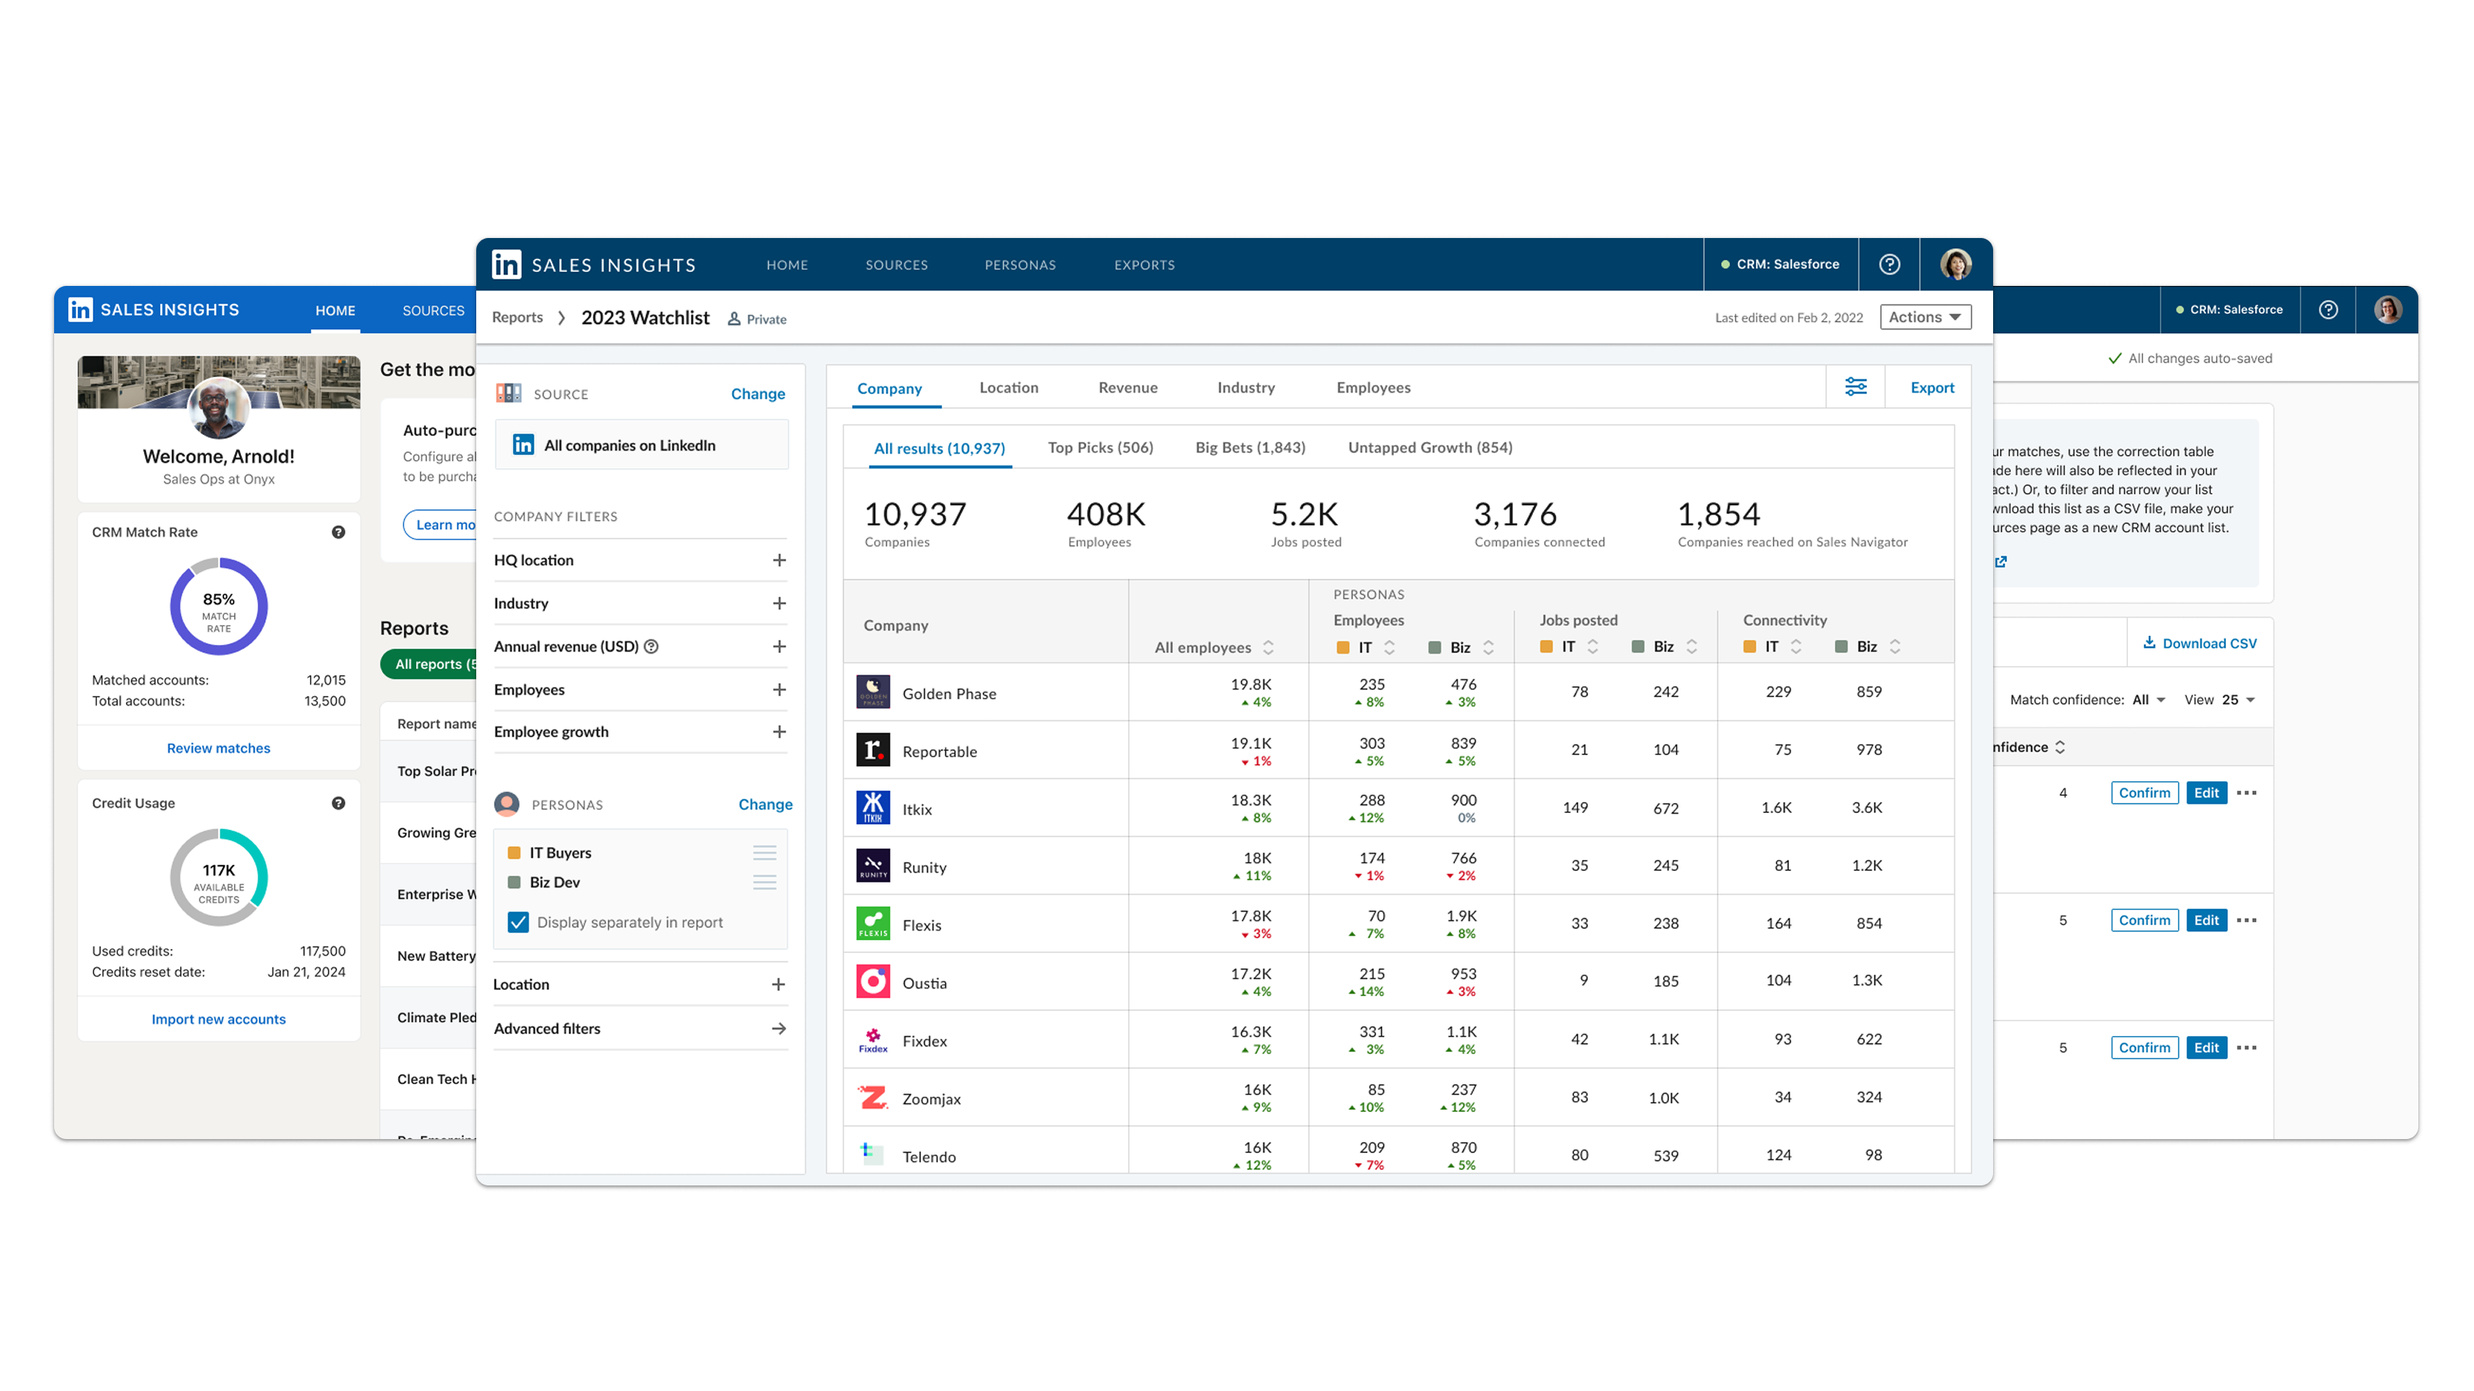
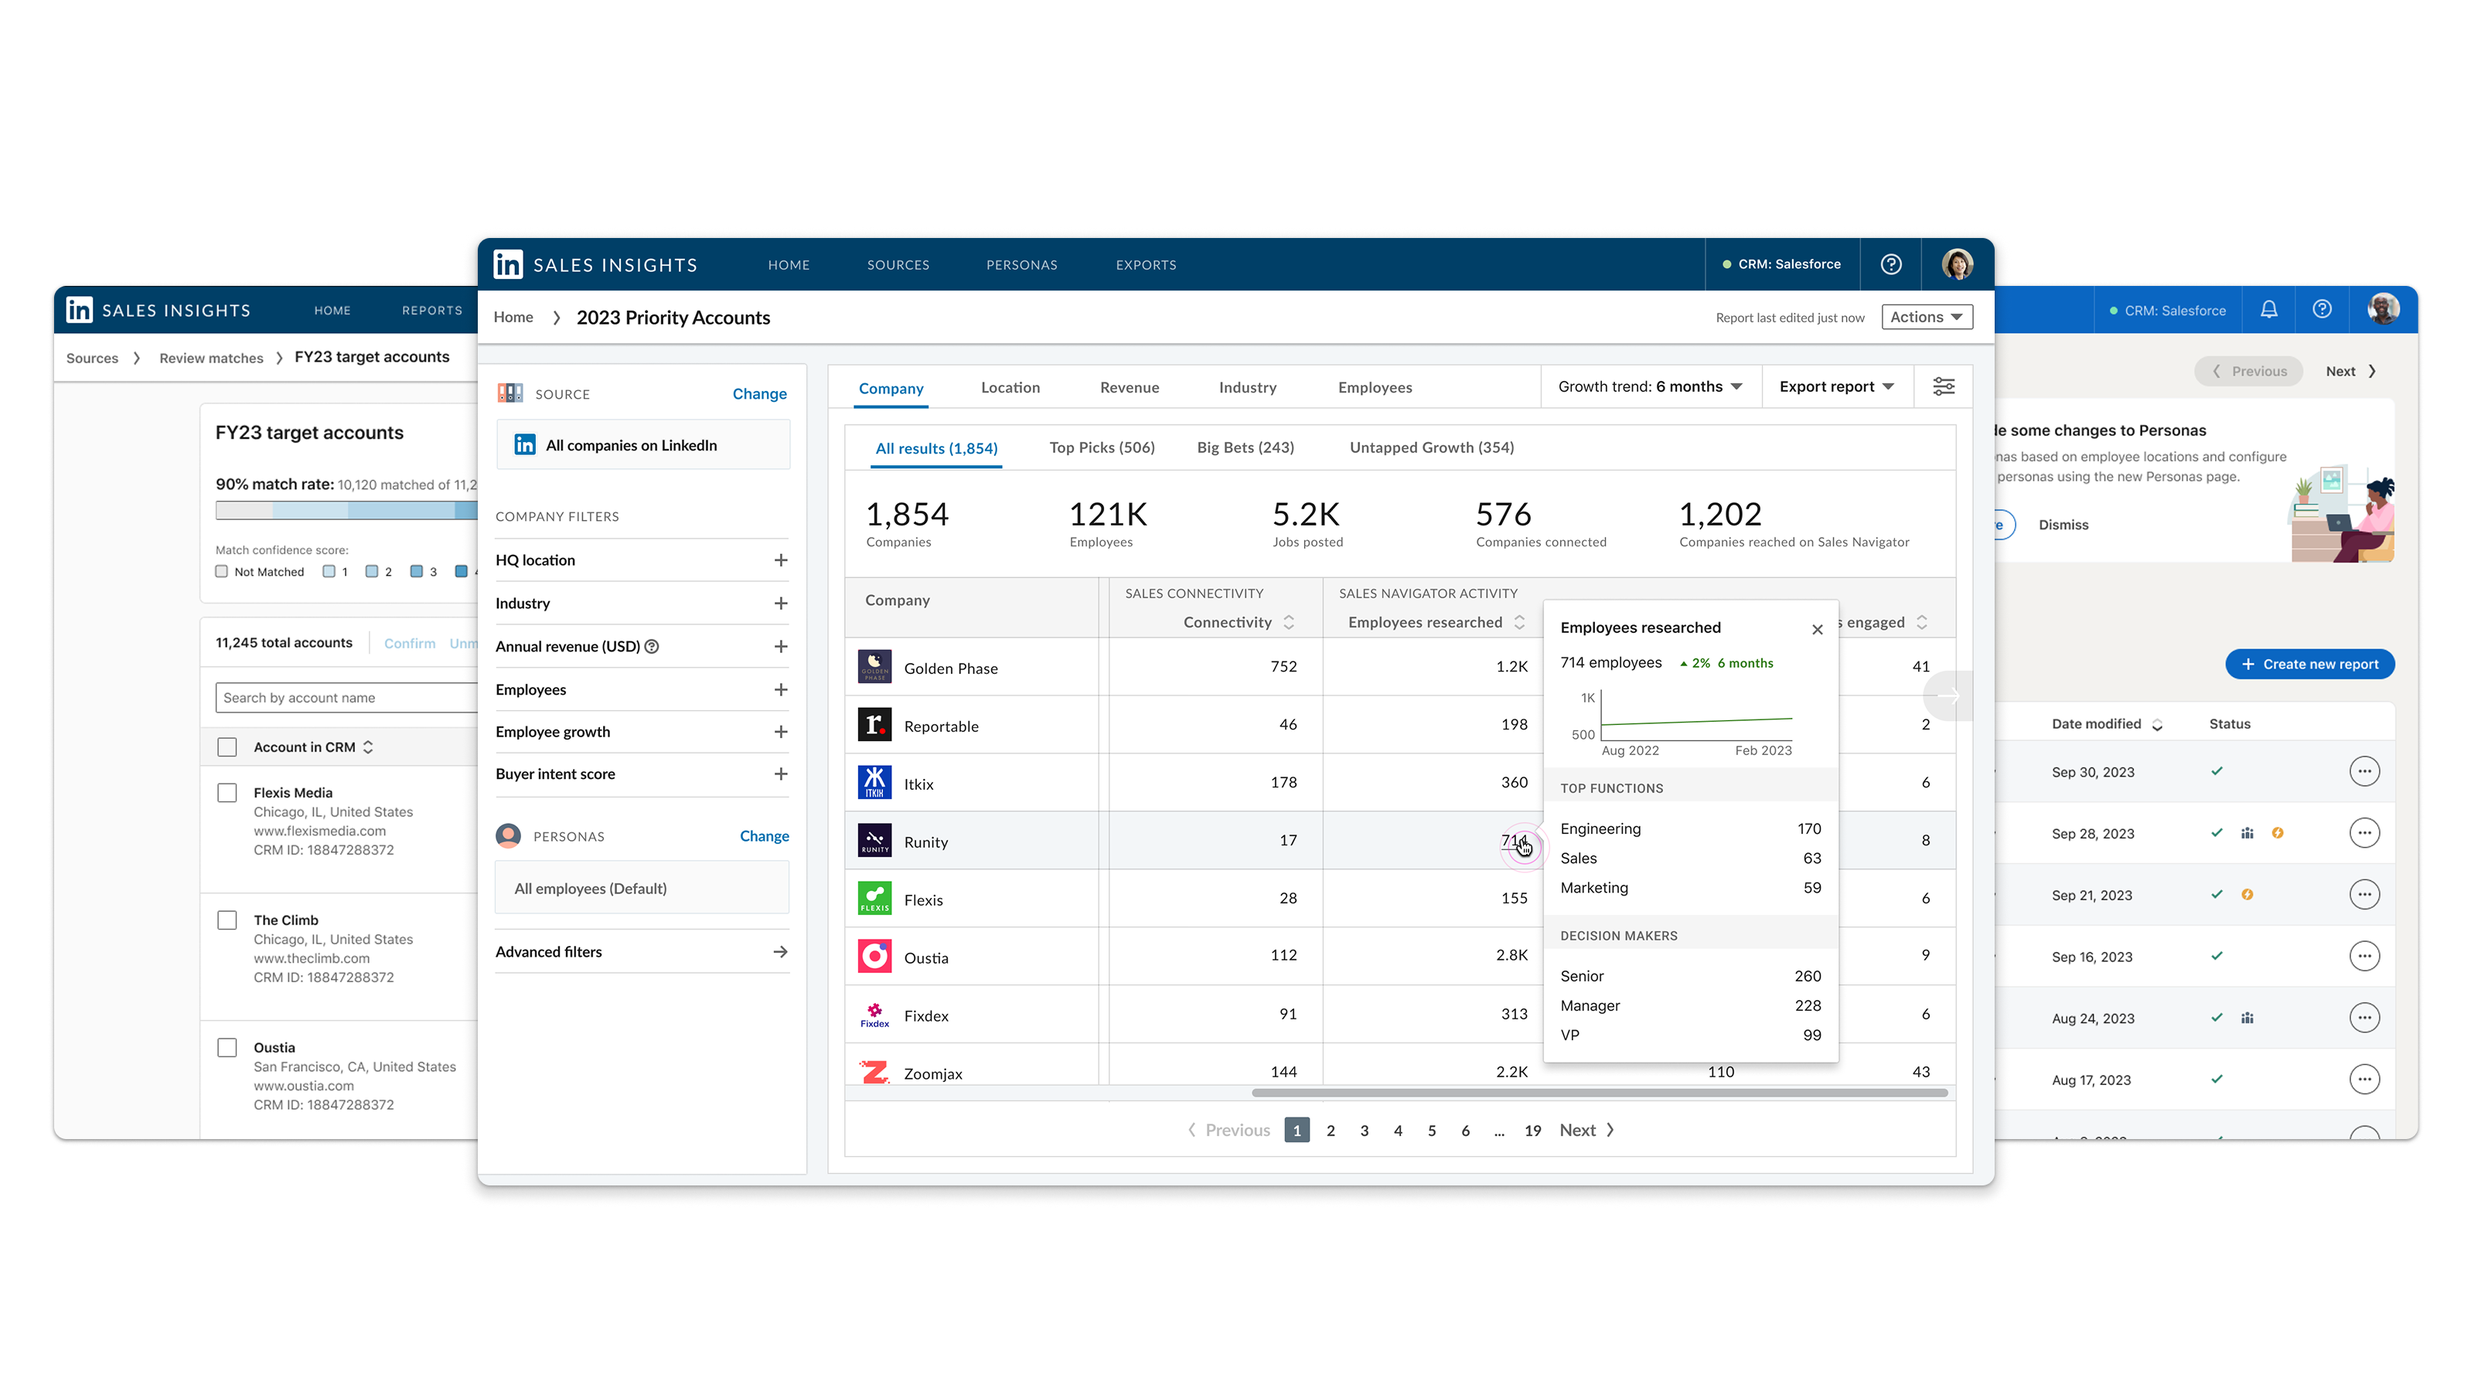
Update Sales Insights case study

diff --git a/components/portfolio-content.tsx b/components/portfolio-content.tsx
@@ -1338,21 +1338,22 @@ export const caseStudies: CaseStudy[] = [
     status: "LinkedIn enterprise product",
     contribution: {
       owned: [
-        "Led design across core planning workflows, reports, sources, account lists, exports, and integration states.",
-        "Reframed dense GTM data around planning confidence, data trust, and repeatable enterprise workflows.",
-        "Designed CRM and CSV automation moments as core UX surfaces, not back-office setup.",
+        "Led design across reports, sources, account lists, exports, CRM sync, and integration states.",
+        "Reframed dense LinkedIn data around planning confidence: why an account mattered, where the data came from, and what teams could do next.",
+        "Treated matching, field mapping, review, export, and sync states as first-class product moments because they determined whether teams could trust automation.",
       ],
       partnered: [
-        "Partnered with two PMs across core experience and integrations.",
-        "Onboarded two temporarily reassigned designers and helped them ramp on rapid-cycle Sales Insights initiatives.",
-        "Connected Sales Ops planning needs to downstream CRM, Marketing, and Sales Navigator activation.",
+        "Partnered with PMs across core experience and integrations to connect planning workflows with downstream activation.",
+        "Onboarded and supported two temporarily reassigned designers as Sales Insights moved through rapid development.",
+        "Aligned Sales Ops, Marketing, CRM, and Sales Navigator needs around shared account definitions and handoff paths.",
       ],
       proof: [
-        "In the report workflow, source model, and account-matching experience.",
-        "In field mapping, export paths, CRM sync, review states, and exception handling.",
+        "Reports, sources, account lists, and market-sizing workflows.",
+        "Account matching, field mapping, export, sync, review states, and exception handling.",
+        "CRM, Marketing, and Sales Navigator activation paths.",
       ],
     },
-    heroImage: "/projects/sales-insights/LSI%20Report%20Builder%20-%20Mercado%20Update%402x.png",
+    heroImage: "/projects/sales-insights/lsi-report-view-v1.png",
     heroAlt: "LinkedIn Sales Insights report builder showing filters, market segments, trend metrics, and account results",
     thumbnailImage: "/projects/sales-insights/Sales-Insights-thumbnail-md.png",
     thumbnailAlt: "LinkedIn Sales Insights report interface with account filters, personas, market sizing, and account table",
@@ -1454,24 +1455,24 @@ export const caseStudies: CaseStudy[] = [
     ],
     decisions: [
       {
-        title: "Design for confidence, not just analysis",
+        title: "Design for planning confidence, not data density",
         detail:
-          "Users were making decisions that affected territories, campaigns, CRM records, and rep focus. The interface needed to show why an account appeared, how current the data was, and how much confidence to place in matches and recommendations.",
+          "Revenue teams were making decisions that affected territories, campaigns, CRM records, and rep focus. The interface needed to show source, recency, rationale, and match confidence so dense data could become a decision teams trusted.",
       },
       {
-        title: "Make the architecture legible",
+        title: "Make the product model legible",
         detail:
-          "Sales Insights could easily feel like a set of dashboards. The experience needed a clear mental model: sources feed reports, reports create insights and account lists, account lists move into exports, syncs, campaigns, and seller workflows.",
+          "Sales Insights could easily feel like disconnected dashboards. The experience needed a clear model: sources feed reports, reports create account lists, and account lists move into exports, syncs, campaigns, and seller workflows.",
       },
       {
-        title: "Treat integration states as user-facing product",
+        title: "Treat integrations as core UX",
         detail:
-          "CRM connection, CSV import, field mapping, bulk export, daily refresh, sync failure, permissions, and unresolved matches were not edge cases. They were the moments where trust was either earned or lost.",
+          "CRM connection, CSV import, field mapping, permissions, refresh, sync failure, and unresolved matches were not setup details. They were trust moments where users decided whether automation could safely write to operational systems.",
       },
       {
-        title: "Connect Sales Ops planning to downstream teams",
+        title: "Bridge strategy to execution",
         detail:
-          "The value of a report depended on whether Marketing, Sales leaders, CRM admins, and sellers could act on the same account definition without rebuilding the logic elsewhere.",
+          "The value of a report depended on whether Marketing, Sales leaders, CRM admins, and sellers could act on the same account definition without rebuilding the logic in another tool.",
       },
     ],
     story: [
@@ -1479,7 +1480,7 @@ export const caseStudies: CaseStudy[] = [
         phase: "01",
         label: "Core report",
         title: "Market sizing needed to become a decision workflow",
-        image: "/projects/sales-insights/lsi-report-view.png",
+        image: "/projects/sales-insights/LSI-Growth-Trends.png",
         alt: "Sales Insights report view showing filters, personas, account counts, employee signals, job postings, and connectivity",
         story:
           "The report surface carried the main planning job: define a market, apply account filters, compare personas, review account-level signals, and decide which segments were worth action. The design challenge was making dense company and member data readable enough for high-stakes planning.",
@@ -1489,7 +1490,7 @@ export const caseStudies: CaseStudy[] = [
         phase: "02",
         label: "System model",
         title: "Sources, reports, and exports had to feel like one product model",
-        image: "/projects/sales-insights/lsi-mocks.png",
+        image: "/projects/sales-insights/LSI-Buyer-Intent.png",
         alt: "Sales Insights product mockups showing report, source matching, CRM status, and export surfaces",
         story:
           "The public research reconstructs Sales Insights around connected layers: sources, reports and insights, account lists, and exports or integrations. My case-study narrative now centers that architecture because it explains how planning outputs became operational assets.",
@@ -1499,7 +1500,7 @@ export const caseStudies: CaseStudy[] = [
         phase: "03",
         label: "Trust and automation",
         title: "CRM automation needed visible review, status, and exception handling",
-        image: "/projects/sales-insights/lsi-mocks.png",
+        image: "/projects/sales-insights/LSI-Review-Matches.png",
         alt: "Sales Insights integration and matching surfaces for CRM-connected planning workflows",
         story:
           "The integration work mattered because it moved insight into systems of record. Matching accounts to LinkedIn companies, mapping fields, exporting, syncing, and handling errors had to be transparent enough for Sales Ops and CRM owners to let automation change operational data.",
@@ -1516,15 +1517,15 @@ export const caseStudies: CaseStudy[] = [
         evidence: "Strategic prioritization, whitespace, territory planning, ABM planning, inbound prioritization, regional expansion, and Sales Navigator handoff.",
       },
     ],
-    outcomesTitle: "What the work clarified",
+    outcomesTitle: "What the work made clearer",
     outcomes: [
-      "Sales Insights is framed as a trusted GTM planning system, not a generic analytics dashboard.",
-      "The case-study narrative now connects public product context to the 2022 maturity challenge: turning market data into repeatable, high-trust workflows.",
-      "Core experience and integration work are presented as one connected system across sources, reports, account lists, exports, CRM, Marketing, and Sales Navigator execution.",
-      "The page leaves room for final screenshots, approved metrics, and internal artifacts without inventing unsupported launch or adoption claims.",
+      "Sales Insights is framed as a planning system for turning LinkedIn data into accountable GTM decisions, not a dashboard of interesting signals.",
+      "The narrative centers trust as part of the experience: source visibility, match confidence, review states, and exception handling had to be designed into the workflow.",
+      "Core reports and integrations are presented as one connected system across sources, account lists, exports, CRM, Marketing, and Sales Navigator activation.",
+      "The case study stays grounded in product decisions and public-safe evidence, with room for deeper internal metrics or artifacts if they become available.",
     ],
     takeaway:
-      "Sales Insights shows enterprise product design at the intersection of data trust, workflow architecture, automation, and cross-functional GTM execution.",
+      "Sales Insights shows how enterprise product design turns complex data, workflow architecture, and automation into decisions GTM teams can trust and act on.",
   },
   {
     id: "seller-agent",
@@ -2029,6 +2030,25 @@ function CaseStudyImagePlaceholder({ accent }: { accent: string }) {
   );
 }
 
+function CaseStudyProblemFrameVisual({ study }: { study: CaseStudy }) {
+  if (study.id !== "sales-insights") {
+    return <CaseStudyImagePlaceholder accent={study.accent} />;
+  }
+
+  return (
+    <section id="problem-frame-visual" aria-label="Sales Insights product preview" className="scroll-mt-32 border-b border-black/12 pb-12">
+      <div className="grid aspect-[16/9] place-items-center overflow-hidden rounded-lg border border-black/12 bg-[var(--accent)]" style={getCaseStudyThumbnailFrameStyle(study)}>
+        <img
+          src="/projects/sales-insights/Sales-Insights-thumbnail-md.png"
+          alt="LinkedIn Sales Insights report interface with account filters, personas, market sizing, and account table"
+          className="block h-full w-full object-contain"
+          loading="lazy"
+        />
+      </div>
+    </section>
+  );
+}
+
 function CaseStudyStoryView({ study }: { study: CaseStudy }) {
   const isPhoneCase = phoneCaseIds.has(study.id);
   const metaRef = useRef<HTMLDivElement>(null);
@@ -2040,6 +2060,7 @@ function CaseStudyStoryView({ study }: { study: CaseStudy }) {
   };
   const whySection = caseStudyWhySections[study.id];
   const primaryImpact = study.impact.slice(0, 3);
+  const showProblemFrameRole = study.id !== "sales-insights";
 
   useEffect(() => {
     function updateMetaStickyState() {
@@ -2123,14 +2144,16 @@ function CaseStudyStoryView({ study }: { study: CaseStudy }) {
                 eyebrow="Problem frame"
                 title={brief.question}
               />
-              <div className="grid gap-6 lg:grid-cols-[minmax(13rem,0.34fr)_minmax(0,1fr)]">
-                <div>
-                  <p className="text-xs font-semibold uppercase tracking-[0.14em] text-black/42">My role</p>
-                  <p className="mt-2 text-base font-semibold leading-7 text-black/82">{study.role}</p>
-                  {study.id === "campglint" ? null : (
-                    <p className="mt-2 text-sm leading-6 text-black/62">{study.platform} / {study.status}</p>
-                  )}
-                </div>
+              <div className={showProblemFrameRole ? "grid gap-6 lg:grid-cols-[minmax(13rem,0.34fr)_minmax(0,1fr)]" : "grid gap-6"}>
+                {showProblemFrameRole ? (
+                  <div>
+                    <p className="text-xs font-semibold uppercase tracking-[0.14em] text-black/42">My role</p>
+                    <p className="mt-2 text-base font-semibold leading-7 text-black/82">{study.role}</p>
+                    {study.id === "campglint" ? null : (
+                      <p className="mt-2 text-sm leading-6 text-black/62">{study.platform} / {study.status}</p>
+                    )}
+                  </div>
+                ) : null}
                 <div>
                   <p className="text-xs font-semibold uppercase tracking-[0.14em] text-black/42">What I focused on</p>
                   <div className="mt-3 grid gap-4">
@@ -2145,7 +2168,7 @@ function CaseStudyStoryView({ study }: { study: CaseStudy }) {
               </div>
             </section>
 
-            <CaseStudyImagePlaceholder accent={study.accent} />
+            <CaseStudyProblemFrameVisual study={study} />
 
             <section id="scope" className="grid gap-7 border-b border-black/12 pb-12 lg:grid-cols-[minmax(13rem,0.34fr)_minmax(0,1fr)]">
               <StorySectionLabel
@@ -3745,7 +3768,7 @@ export function PortfolioPage() {
         <div className="mx-auto grid max-w-6xl gap-9 lg:grid-cols-[minmax(0,0.95fr)_minmax(20rem,0.72fr)] lg:items-center">
           <div>
             <h1 className="max-w-3xl text-4xl font-semibold leading-[1.06] text-balance sm:text-5xl lg:text-[3.35rem]">
-              Turning complex product mandates into trusted workflows.
+              I design and build product systems that turn complex signals into clear decisions.
             </h1>
             <p className="mt-5 max-w-2xl text-base leading-7 text-black/70">
               Senior product designer with 10+ years at LinkedIn, focused on enterprise systems, AI-assisted selling, GTM workflows, and founder-led product building.
